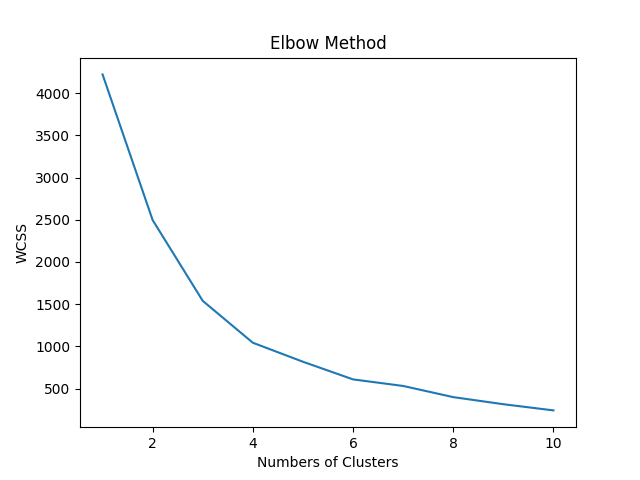
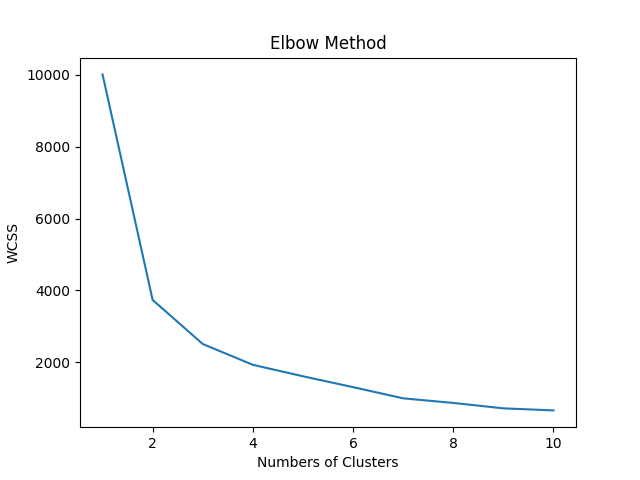
KMeans

diff --git a/Src/source.py b/Src/source.py
@@ -11,13 +11,11 @@ from sklearn.model_selection import train_test_split
 from sklearn.metrics import mean_absolute_error
 from sklearn.metrics import mean_absolute_percentage_error
 from sklearn.model_selection import cross_val_score
-from sklearn.preprocessing import StandardScaler
 from sklearn.cluster import KMeans
 from sklearn.metrics import silhouette_score
 import scipy.cluster.hierarchy as sch
 from sklearn.cluster import AgglomerativeClustering
 from sklearn.cluster import DBSCAN
-from matplotlib import colors as mcolors
 
 # Load Data
 
@@ -228,8 +226,6 @@ print("%0.2f accuracy with a standard deviation of %0.2f" % (result_cv.mean(), r
 # Clustering: K-means
 
 Xc = data_encoder.iloc[:, [12,16]].values
-scaler = StandardScaler()
-Xc = scaler.fit_transform(Xc)
 
 print(Xc)
 
@@ -246,33 +242,28 @@ plt.ylabel('WCSS')
 plt.title('Elbow Method')
 plt.show()
 
-k = 6
-kmeans = KMeans(n_clusters = 6, random_state = 0)
+k = 7
+kmeans = KMeans(n_clusters = 7, random_state = 0)
 pred_k = kmeans.fit_predict(Xc)
+print(pred_k)
 
-plt.scatter(Xc[pred_k == 0, 0], Xc[pred_k == 0, 1], s = 100, c = 'red', label = 'Cluster 1')
-plt.scatter(Xc[pred_k == 1, 0], Xc[pred_k == 1, 1], s = 100, c = 'blue', label = 'Cluster 2')
-plt.scatter(Xc[pred_k == 2, 0], Xc[pred_k == 2, 1], s = 100, c = 'green', label = 'Cluster 3')
-plt.scatter(Xc[pred_k == 3, 0], Xc[pred_k == 3, 1], s = 100, c = 'yellow', label = 'Cluster 4')
-plt.scatter(Xc[pred_k == 4, 0], Xc[pred_k == 4, 1], s = 100, c = 'purple', label = 'Cluster 5')
-plt.scatter(Xc[pred_k == 5, 0], Xc[pred_k == 5, 1], s = 100, c = 'grey', label = 'Cluster 6')
-plt.xlabel('NObeyesdad')
-plt.ylabel('FAF')
-plt.title('KMeans_Clusters')
-plt.legend()
+sns.scatterplot(data = data_encoder, x = 'NObeyesdad', y = 'FAF', hue = pred_k, palette = "deep", s = 100)
+plt.legend(bbox_to_anchor=(1.01, 1),borderaxespad=0)
+plt.title("KMeans")
 plt.show()
 
 data_kmeans = data.copy()
 data_kmeans['Cluster'] = pred_k
 print(data_kmeans.head())
 
-boolArray = data_kmeans['Cluster'] == 3
+boolArray = data_kmeans['Cluster'] == 4
 print(data_kmeans[boolArray])
 
 # Performance Metrics
 
 kmeans_metrics = silhouette_score(Xc, kmeans.labels_, metric = 'euclidean')
 print('The Silhouette_Score of K-means is: {}'.format(kmeans_metrics))
+
 """
 # Clustering: Hierarchical
 
@@ -314,10 +305,15 @@ dbscan.fit(Xc)
 pred_d = dbscan.labels_
 print(pred_d)
 
+colors = plt.cm.rainbow(np.linspace(0, 1, len(Xc)))
+for i in range(len(Xc)):
+    plt.plot(Xc[i][0], Xc[i][1], colors[pred_d[i]], markersize = 15)
+    plt.xlabel('NObeyesdad')
+    plt.ylabel('FAF')
+    plt.title('DBSCAN')
+    plt.legend()
+    plt.show()
 
-colors = dict(mcolors.BASE_COLORS, **mcolors.CSS4_COLORS)
-for name, color in colors.items():
-    print(name, color)
 
 plt.scatter(Xc[pred_d == 0, 0], Xc[pred_d == 0, 1], s = 100, c = 'red', label = 'Cluster 1')
 plt.scatter(Xc[pred_d == 1, 0], Xc[pred_d == 1, 1], s = 100, c = 'blue', label = 'Cluster 2')

diff --git a/README.md b/README.md
@@ -292,7 +292,7 @@ The result of the _Cross-Validation_ metric was also satisfactory:
 
 1. _Centroids-based clustering: K-Means_
 
-In this step of the project, the groups formed by frequency of physical activity ("FAF") and level of body mass index ("NObeyesdad") columns of the data set were analysed. Before applying the _KMeans_ algorithm it was necessary to standardize the data using the _StandardScaler_ method.
+In this step of the project, the groups formed by frequency of physical activity ("FAF") and level of body mass index ("NObeyesdad") columns of the data set were analysed. 
 
 ##### _Elbow Method_
 
@@ -300,41 +300,33 @@ The _Elbow Method_ was used to find out the number of clusters that was used in 
 
 ![](/Graphics/ElbowMethod.png)
 
-With k=6, the following graph was generated:
+According to the graph I could choose the value of k between 6 and 8. I chose k = 7.
 
-![](/Graphics/kmeans_6.png)
+![](/Graphics/kmeans.png)
 
-It can be noted that the most worrying group in the sample is the green cluster, which has the highest levels of obesity and the lowest frequency of physical activity. There are 387 people in the green cluster, as shown below:
+It can be seen that the most worrying group in the sample is Cluster 4, which has the highest rates of obesity and does not practice physical activity. There are 256 people in the purple cluster, as shown below:
 ```
       Gender        Age    Height      Weight  ...        CALC                 MTRANS        NObeyesdad  Cluster
-17    Female  29.000000  1.530000   78.000000  ...          no             Automobile    Obesity_Type_I        3
-21    Female  52.000000  1.690000   87.000000  ...          no             Automobile    Obesity_Type_I        3
-23    Female  22.000000  1.600000   82.000000  ...   Sometimes  Public_Transportation    Obesity_Type_I        3
-67      Male  23.000000  1.650000   95.000000  ...  Frequently             Automobile    Obesity_Type_I        3
-68      Male  30.000000  1.760000  112.000000  ...  Frequently             Automobile   Obesity_Type_II        3
+68      Male  30.000000  1.760000  112.000000  ...  Frequently             Automobile   Obesity_Type_II        4
+197     Male  41.000000  1.750000  118.000000  ...   Sometimes                   Bike   Obesity_Type_II        4
+202   Female  26.000000  1.560000  102.000000  ...   Sometimes  Public_Transportation  Obesity_Type_III        4
+210     Male  20.000000  1.800000  114.000000  ...          no  Public_Transportation   Obesity_Type_II        4
+229     Male  32.000000  1.750000  120.000000  ...          no             Automobile   Obesity_Type_II        4
 ...      ...        ...       ...         ...  ...         ...                    ...               ...      ...
-2098  Female  25.992348  1.606474  104.954291  ...   Sometimes  Public_Transportation  Obesity_Type_III        3
-2099  Female  25.974446  1.628855  108.090006  ...   Sometimes  Public_Transportation  Obesity_Type_III        3
-2100  Female  25.777565  1.628205  107.378702  ...   Sometimes  Public_Transportation  Obesity_Type_III        3
-2101  Female  25.722004  1.628470  107.218949  ...   Sometimes  Public_Transportation  Obesity_Type_III        3
-2102  Female  25.765628  1.627839  108.107360  ...   Sometimes  Public_Transportation  Obesity_Type_III        3
+2098  Female  25.992348  1.606474  104.954291  ...   Sometimes  Public_Transportation  Obesity_Type_III        4
+2099  Female  25.974446  1.628855  108.090006  ...   Sometimes  Public_Transportation  Obesity_Type_III        4
+2100  Female  25.777565  1.628205  107.378702  ...   Sometimes  Public_Transportation  Obesity_Type_III        4
+2101  Female  25.722004  1.628470  107.218949  ...   Sometimes  Public_Transportation  Obesity_Type_III        4
+2102  Female  25.765628  1.627839  108.107360  ...   Sometimes  Public_Transportation  Obesity_Type_III        4
 
-[387 rows x 18 columns]
+[256 rows x 18 columns]
 ```
-
 ##### _Performance Metrics_
 
-Through the _silhouette_score_ metrics, there was a return of 0.5 which can be considered an acceptable performance of KMeans.
-
-
-
-
-
-
-
-
-
-
+Through the _silhouette_score_ metrics, there was a return of approximately 0.5 which can be considered an acceptable performance of KMeans.
+```
+The Silhouette_Score of K-means is: 0.4979439571648936
+```
 
 
 
